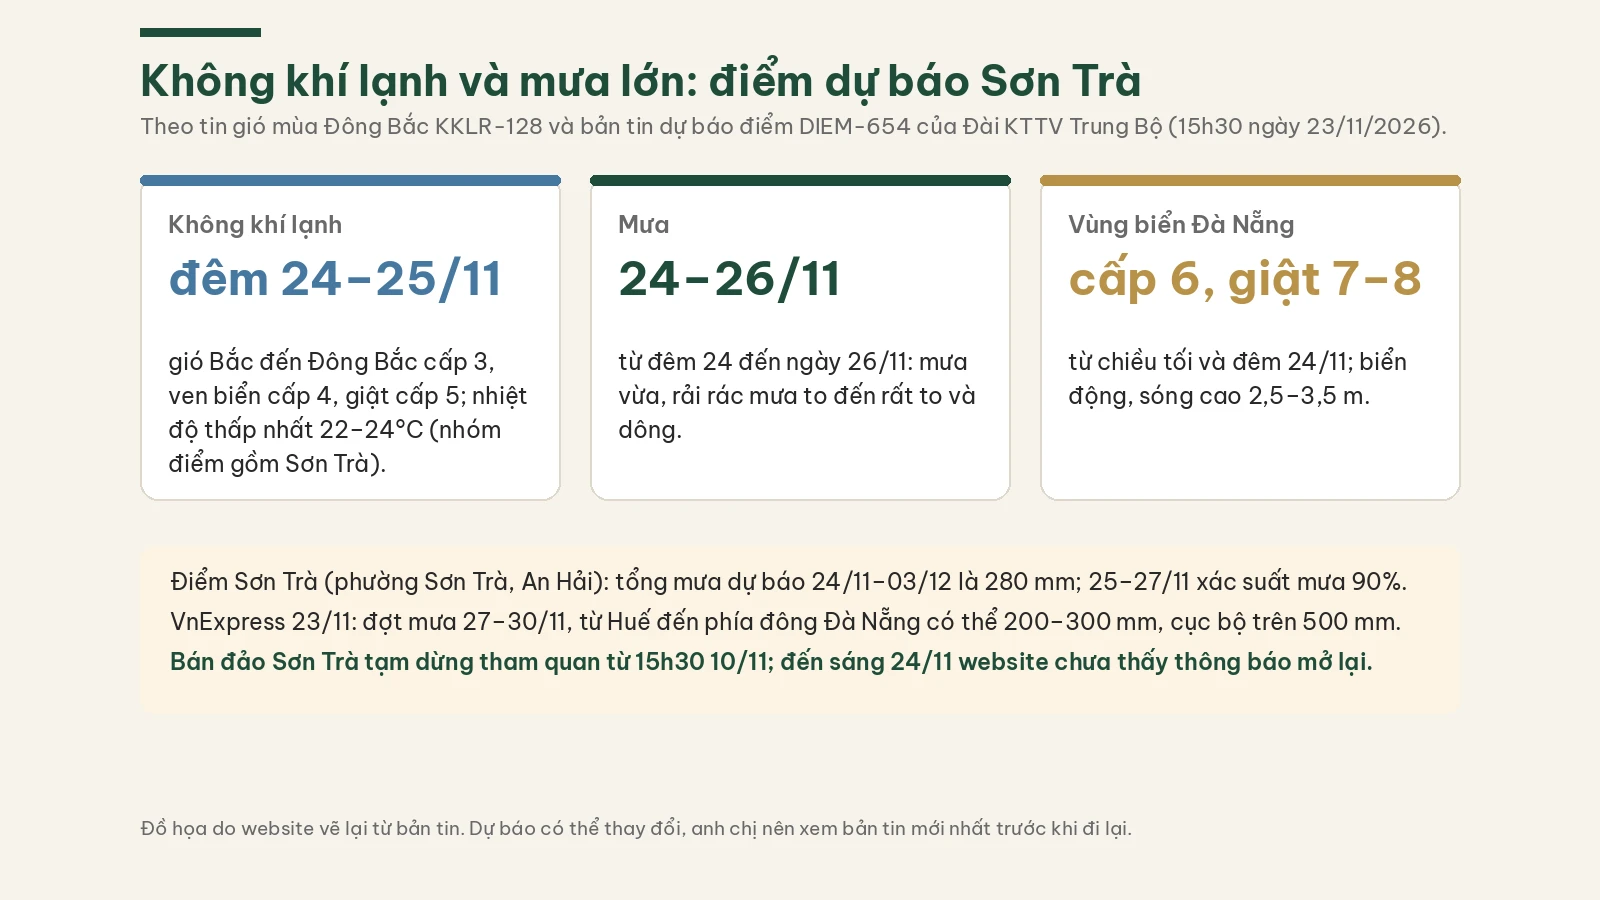
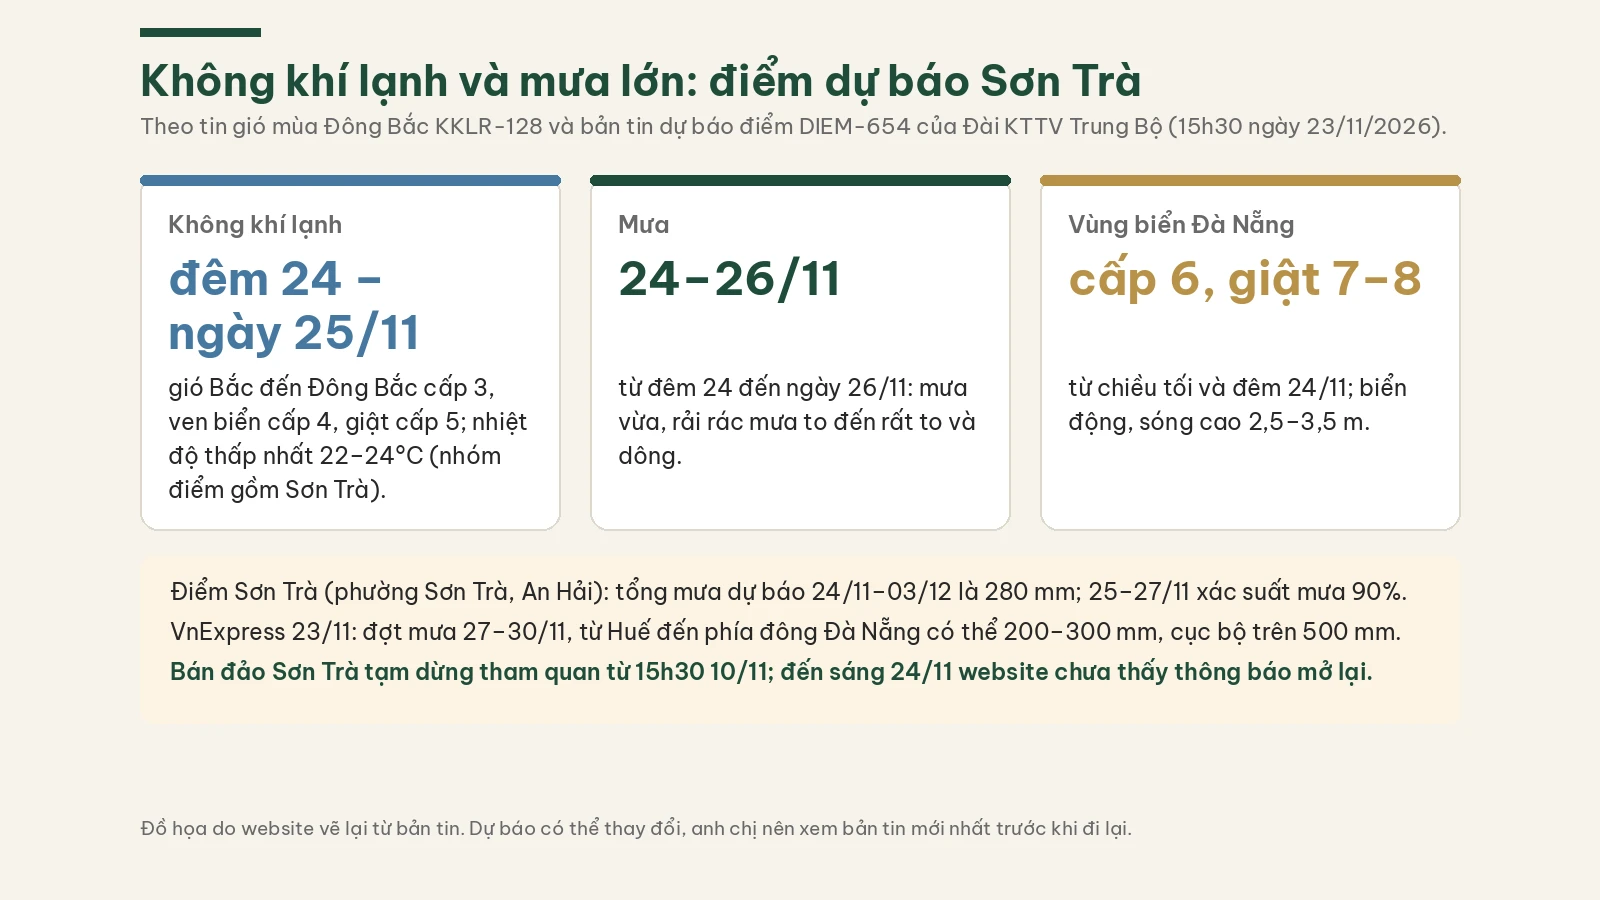
content: theo gợi ý Luna — rút tiêu đề còn 90 ký tự, chỉnh câu bán đảo và Mân Thái, sửa infographic mưa, nén hero (24.11.2026)

diff --git a/src/data/news/articles/son-tra-bay-thu-man-thai-mua-lon-24-11-2026.ts b/src/data/news/articles/son-tra-bay-thu-man-thai-mua-lon-24-11-2026.ts
@@ -4,7 +4,7 @@ export const article = {
   slug: "son-tra-bay-thu-man-thai-mua-lon-24-11-2026",
   date: "24.11.2026",
   title:
-    "Sơn Trà 21–24/11: 1.571 bẫy thú thu giữ ở rừng Sơn Trà sau 11 tháng, ngày hội ở Mân Thái, mưa lớn trở lại",
+    "Sơn Trà 21–24/11: 1.571 bẫy thú thu giữ trong 11 tháng, ngày hội Mân Thái, mưa lớn trở lại",
   excerpt:
     "Ngày 23/11/2026, Ban Quản lý rừng phòng hộ và đặc dụng TP Đà Nẵng cho biết trong 11 tháng năm 2026, lực lượng chức năng thu giữ 1.571 bẫy thú ở rừng Sơn Trà, trong tổng số 1.854 bẫy ở hai khu rừng Sơn Trà và Hải Vân. Tổ dân phố Mân Thái tổ chức Ngày hội Đại đoàn kết chiều 21/11. Không khí lạnh gây mưa vừa, rải rác mưa to đến rất to từ đêm 24 đến 26/11; bán đảo Sơn Trà chưa có tin mở lại tham quan.",
   description:
@@ -53,7 +53,7 @@ export const article = {
     },
     {
       heading: "Ngày hội Đại đoàn kết ở tổ dân phố Mân Thái",
-      text: "Chiều 21/11/2026, tổ dân phố Mân Thái, phường Sơn Trà tổ chức Ngày hội Đại đoàn kết toàn dân tộc tại Nhà sinh hoạt cộng đồng. Phiên chợ 0 đồng trao 50 suất quà, tổng trị giá 12,5 triệu đồng, cho hộ nghèo, cận nghèo và gia đình khó khăn; ngày hội trao thêm 8 suất quà khuyến học, mỗi suất 300.000 đồng. Tính cả các suất trao từ đầu năm học 2026–2027, Ban Công tác Mặt trận tổ dân phố đã dành 86 suất quà và học bổng, tổng trị giá 18,2 triệu đồng, cho học sinh. Ngày hội cũng biểu dương 10 hộ gia đình văn hóa tiêu biểu, trao 20 lá cờ Tổ quốc, có 6 gian hàng ẩm thực miễn phí và bữa cơm đại đoàn kết khoảng 150 người. (Nguồn: Tạp chí Công dân & Khuyến học, 22/11/2026)",
+      text: "Chiều 21/11/2026, tổ dân phố Mân Thái, phường Sơn Trà tổ chức Ngày hội Đại đoàn kết toàn dân tộc tại Nhà sinh hoạt cộng đồng. Phiên chợ 0 đồng trao 50 suất quà, tổng trị giá 12,5 triệu đồng, cho hộ nghèo, cận nghèo và gia đình khó khăn; ngày hội trao thêm 8 suất quà khuyến học, mỗi suất 300.000 đồng. Tính cả các suất trao từ đầu năm học 2026–2027, Ban Công tác Mặt trận tổ dân phố đã dành 86 suất quà và học bổng, tổng trị giá 18,2 triệu đồng, cho học sinh. Ngày hội cũng biểu dương 10 hộ gia đình văn hóa tiêu biểu, trao cờ Tổ quốc và tổ chức bữa cơm đại đoàn kết khoảng 150 người. (Nguồn: Tạp chí Công dân & Khuyến học, 22/11/2026)",
     },
     {
       text: "Cũng trong hai ngày 21 và 22/11, Giải cờ tướng, cờ vua phường Sơn Trà năm 2026 diễn ra (Báo Đà Nẵng, 23/11/2026).",
@@ -67,14 +67,14 @@ export const article = {
       text: "Theo tin gió mùa Đông Bắc KKLR-128 của Đài Khí tượng thủy văn Trung Bộ phát 15h30 ngày 23/11/2026, khoảng đêm 24 và ngày 25/11, không khí lạnh ảnh hưởng đến Đà Nẵng; trên đất liền gió Bắc đến Đông Bắc cấp 3, ven biển cấp 4, giật cấp 5; nhóm điểm dự báo gồm Sơn Trà có nhiệt độ thấp nhất 22–24°C. Từ đêm 24 đến ngày 26/11, thành phố có khả năng mưa vừa, rải rác mưa to đến rất to và dông. Từ chiều tối và đêm 24/11, vùng biển Đà Nẵng gió Đông Bắc mạnh dần lên cấp 6, giật cấp 7–8, biển động, sóng cao 2,5–3,5 m.",
       image: "/images/news-son-tra-2411-body-mua.webp",
       imageAlt:
-        "Đồ họa không khí lạnh và mưa lớn theo bản tin KKLR-128 và DIEM-654 của Đài KTTV Trung Bộ lúc 15h30 ngày 23/11/2026: không khí lạnh đêm 24–25/11, gió Bắc đến Đông Bắc cấp 3, ven biển cấp 4, giật cấp 5, nhiệt độ thấp nhất 22–24°C ở nhóm điểm gồm Sơn Trà; từ đêm 24 đến ngày 26/11 mưa vừa, rải rác mưa to đến rất to và dông; vùng biển Đà Nẵng gió cấp 6, giật cấp 7–8, sóng 2,5–3,5 m từ chiều tối và đêm 24/11. Điểm Sơn Trà (phường Sơn Trà, An Hải) tổng mưa dự báo 24/11–03/12 là 280 mm, xác suất mưa 90% các ngày 25–27/11. VnExpress 23/11: đợt mưa 27–30/11, từ Huế đến phía đông Đà Nẵng có thể 200–300 mm, cục bộ trên 500 mm. Bán đảo Sơn Trà tạm dừng tham quan từ 15h30 ngày 10/11, đến sáng 24/11 website chưa thấy thông báo mở lại.",
+        "Đồ họa không khí lạnh và mưa lớn theo bản tin KKLR-128 và DIEM-654 của Đài KTTV Trung Bộ lúc 15h30 ngày 23/11/2026: không khí lạnh đêm 24 – ngày 25/11, gió Bắc đến Đông Bắc cấp 3, ven biển cấp 4, giật cấp 5, nhiệt độ thấp nhất 22–24°C ở nhóm điểm gồm Sơn Trà; từ đêm 24 đến ngày 26/11 mưa vừa, rải rác mưa to đến rất to và dông; vùng biển Đà Nẵng gió cấp 6, giật cấp 7–8, sóng 2,5–3,5 m từ chiều tối và đêm 24/11. Điểm Sơn Trà (phường Sơn Trà, An Hải) tổng mưa dự báo 24/11–03/12 là 280 mm, xác suất mưa 90% các ngày 25–27/11. VnExpress 23/11: đợt mưa 27–30/11, từ Huế đến phía đông Đà Nẵng có thể 200–300 mm, cục bộ trên 500 mm. Bán đảo Sơn Trà tạm dừng tham quan từ 15h30 ngày 10/11, đến sáng 24/11 website chưa thấy thông báo mở lại.",
     },
     {
       text: "Bản tin dự báo điểm 10 ngày DIEM-654 cùng thời điểm cho điểm Sơn Trà (đại diện phường Sơn Trà và phường An Hải) tổng lượng mưa dự báo từ 24/11 đến 03/12 là 280 mm, xác suất mưa 90% các ngày 25, 26 và 27/11. VnExpress (23/11/2026) dẫn Trung tâm Dự báo khí tượng thủy văn quốc gia: đợt mưa thứ hai từ 27 đến 30/11, khu vực từ Huế đến phía đông Đà Nẵng có thể mưa 200–300 mm, cục bộ trên 500 mm; mưa tập trung từ đêm 27 đến sáng 29/11 rồi giảm dần.",
     },
     {
-      heading: "Bán đảo Sơn Trà vẫn tạm dừng tham quan",
-      text: "Ban Quản lý bán đảo Sơn Trà và các bãi biển du lịch Đà Nẵng tạm dừng hoạt động tham quan bán đảo từ 15h30 ngày 10/11/2026, thời điểm mở lại chưa được xác định (VietNamNet, 10/11/2026). Đến sáng 24/11, website chưa tìm thấy nguồn báo chí nào đưa thông báo mở lại. Với dự báo mưa lớn trong những ngày tới, anh chị nên theo dõi thông báo chính thức của Ban Quản lý trước khi lên bán đảo.",
+      heading: "Bán đảo Sơn Trà chưa có thông báo mở lại tham quan",
+      text: "Ban Quản lý bán đảo Sơn Trà và các bãi biển du lịch Đà Nẵng tạm dừng hoạt động tham quan bán đảo từ 15h30 ngày 10/11/2026, thời điểm mở lại chưa được xác định (VietNamNet, 10/11/2026). Đến sáng 24/11/2026, chưa có thông báo mở lại tham quan được báo chí đưa tin. Với dự báo mưa lớn trong những ngày tới, anh chị nên theo dõi thông báo chính thức của Ban Quản lý trước khi lên bán đảo.",
       links: [
         {
           to: "/tin-tuc/son-tra-tam-dung-tham-quan-bai-cat-vang-12-11-2026",
@@ -114,7 +114,7 @@ export const article = {
     },
     {
       heading: "Bán đảo Sơn Trà đã mở lại tham quan chưa?",
-      text: "Bán đảo tạm dừng tham quan từ 15h30 ngày 10/11/2026. Đến sáng 24/11, website chưa tìm thấy thông báo mở lại của Ban Quản lý bán đảo Sơn Trà và các bãi biển du lịch Đà Nẵng; anh chị nên theo dõi thông báo chính thức trước khi lên bán đảo.",
+      text: "Bán đảo tạm dừng tham quan từ 15h30 ngày 10/11/2026 cho đến khi có thông báo mới. Đến sáng 24/11 chưa có thông báo mở lại của Ban Quản lý bán đảo Sơn Trà và các bãi biển du lịch Đà Nẵng; anh chị nên theo dõi thông báo chính thức trước khi lên bán đảo.",
     },
     {
       heading: "Lưu ý",
